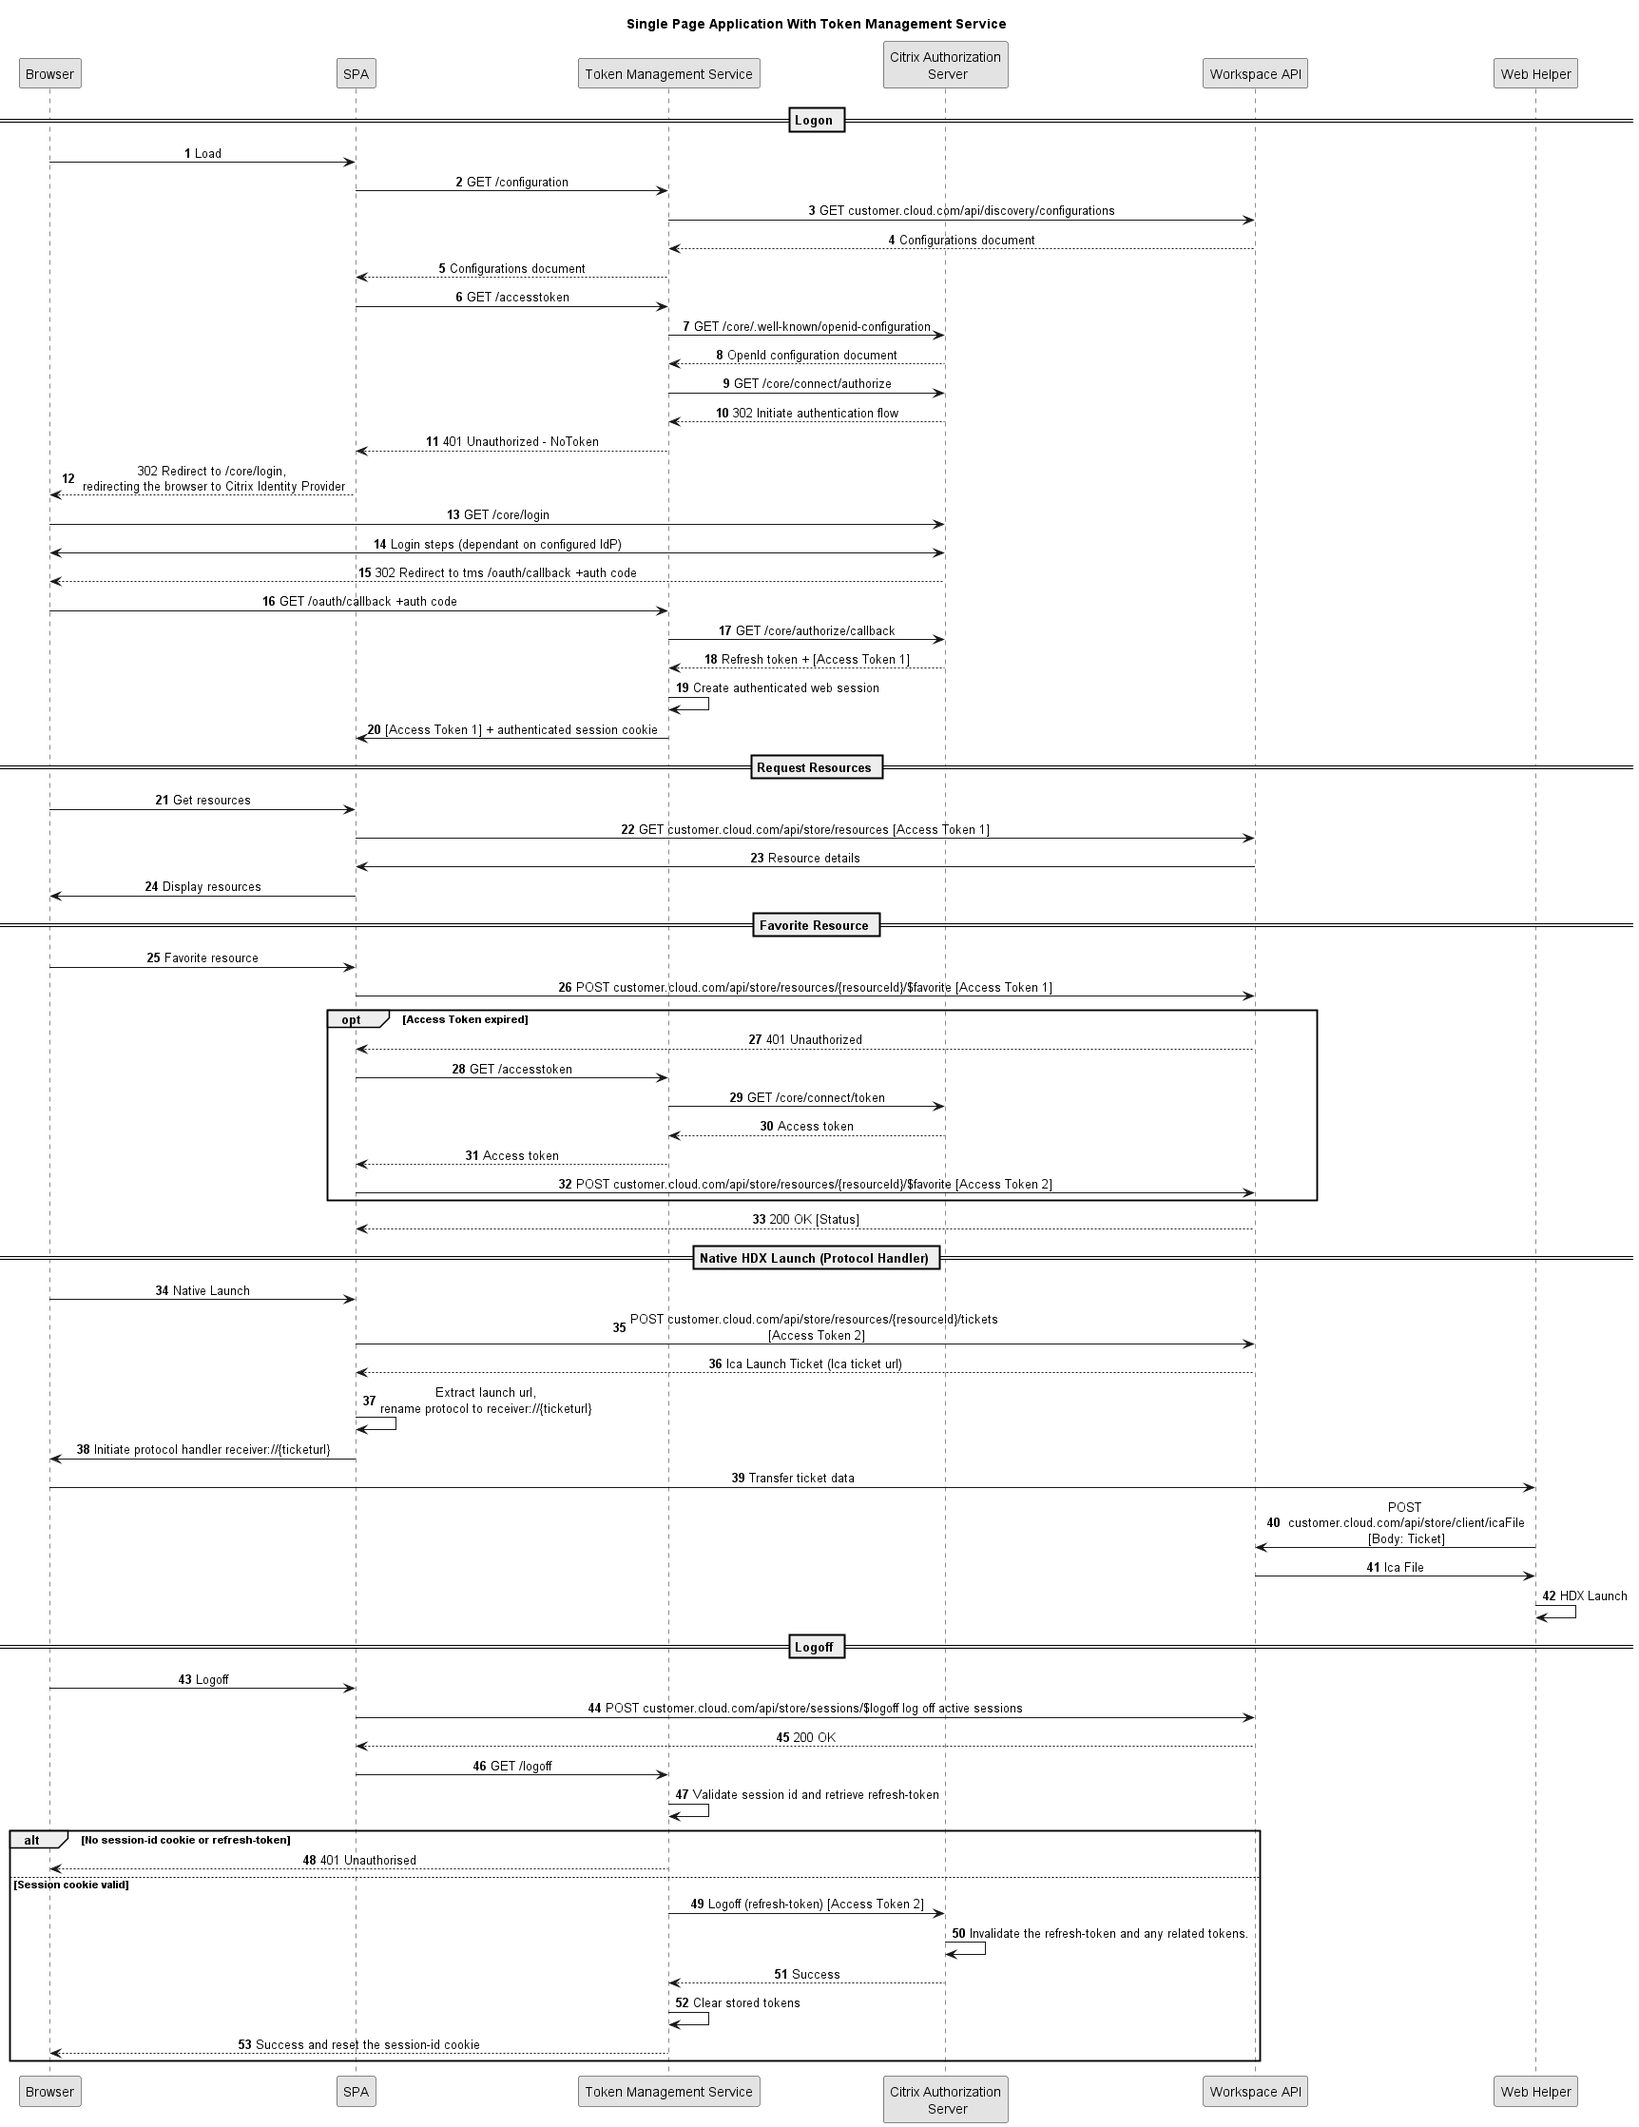
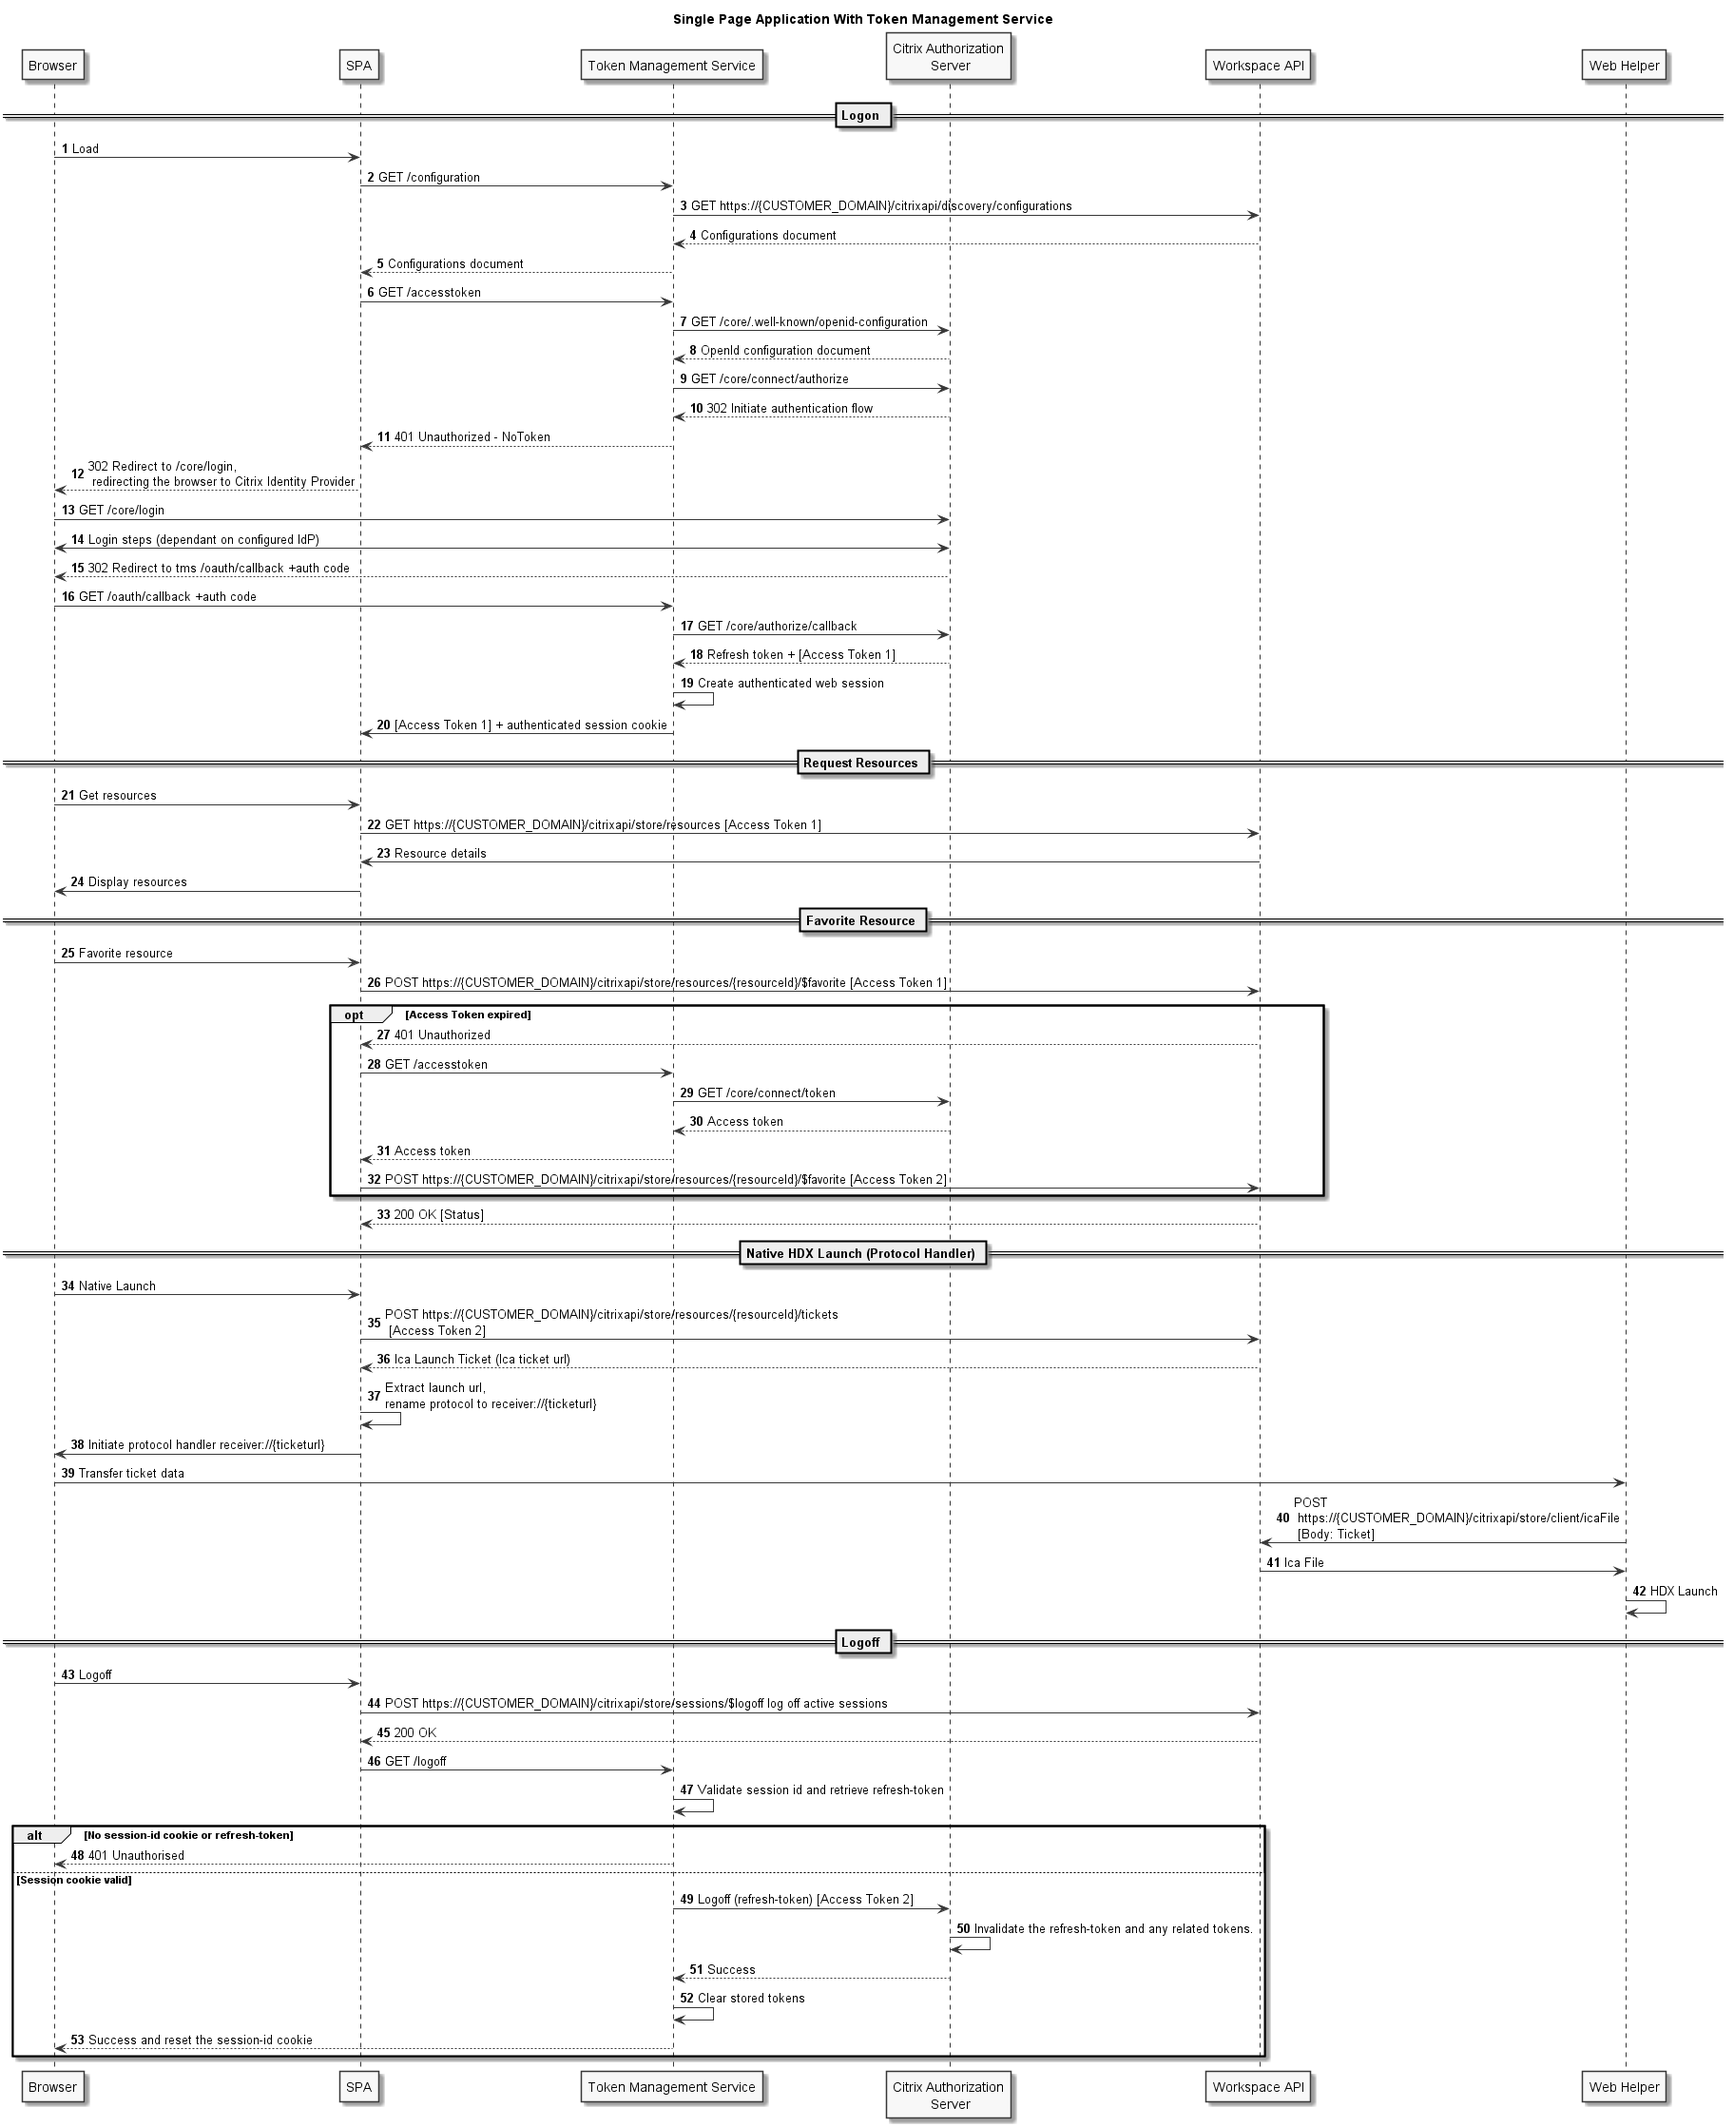
Updating Unified Workspace API path from /api to /citrixapi (#4)
* Upgrading to dotnet9 + path change

* Updating copyright

* Updating diagrams

* Updating diagrams

diff --git a/Citrix.UnifiedApi.Test.SPA/wwwroot/js/app.js b/Citrix.UnifiedApi.Test.SPA/wwwroot/js/app.js
@@ -1,4 +1,4 @@
-// Copyright © 2023. Cloud Software Group, Inc. All Rights Reserved.
+// Copyright © 2025. Cloud Software Group, Inc. All Rights Reserved.
 
 // In a production service, this should this should be pulled in from another source, such as a configuration file, environment variable, or other secure location
 const APPLICATION_ID = ""
@@ -72,9 +72,9 @@ window.addEventListener('load', async () => {
         const sessionState = await axios.get(`${tmsBaseUrl}/Session/CheckSession`, { withCredentials: true })
         
         if (sessionState.data.isLoggedIn) {
-            apiHandler = CreateApiHandler(`https://${sessionState.data.workspaceDomain}/api`, tmsBaseUrl, sessionState.data.requestVerificationToken)
+            apiHandler = CreateApiHandler(`https://${sessionState.data.workspaceDomain}/citrixapi`, tmsBaseUrl, sessionState.data.requestVerificationToken)
 
-            let discoveryResponse = await apiHandler.get(`https://${sessionState.data.workspaceDomain}/api/discovery/configurations`)
+            let discoveryResponse = await apiHandler.get(`https://${sessionState.data.workspaceDomain}/citrixapi/discovery/configurations`)
 
             let resourcesListUrl = new URL(discoveryResponse.data.services.find(service => service.service === "store").endpoints.find(endpoint => endpoint.id === "ListResources").url)
 

diff --git a/Citrix.UnifiedApi.Test.SPA/wwwroot/index.html b/Citrix.UnifiedApi.Test.SPA/wwwroot/index.html
@@ -1,4 +1,4 @@
-<!-- Copyright © 2023. Cloud Software Group, Inc. All Rights Reserved. -->
+<!-- Copyright © 2025. Cloud Software Group, Inc. All Rights Reserved. -->
 <!DOCTYPE html>
 <html lang="en">
 

diff --git a/Citrix.UnifiedApi.Test.TMS/Discovery/DiscoveryClient.cs b/Citrix.UnifiedApi.Test.TMS/Discovery/DiscoveryClient.cs
@@ -1,4 +1,4 @@
-// Copyright © 2023. Cloud Software Group, Inc. All Rights Reserved.
+// Copyright © 2025. Cloud Software Group, Inc. All Rights Reserved.
 
 using System.Net;
 
@@ -32,7 +32,7 @@ public class DiscoveryClient
 
             var uri = new UriBuilder(customerDomain)
             {
-                Path = $"/api/discovery/configurations",
+                Path = $"/citrixapi/discovery/configurations",
                 Scheme= "https",
                 Port= 443
             }.Uri;

diff --git a/Citrix.UnifiedApi.Test.TMS/CitrixOidc/CitrixOpenIdConnectEvents.cs b/Citrix.UnifiedApi.Test.TMS/CitrixOidc/CitrixOpenIdConnectEvents.cs
@@ -1,4 +1,4 @@
-// Copyright © 2023. Cloud Software Group, Inc. All Rights Reserved.
+// Copyright © 2025. Cloud Software Group, Inc. All Rights Reserved.
 
 using Microsoft.AspNetCore.Authentication.OpenIdConnect;
 using Microsoft.IdentityModel.Protocols.OpenIdConnect;

diff --git a/Citrix.UnifiedApi.Test.TMS/Program.cs b/Citrix.UnifiedApi.Test.TMS/Program.cs
@@ -1,4 +1,4 @@
-// Copyright © 2023. Cloud Software Group, Inc. All Rights Reserved.
+// Copyright © 2025. Cloud Software Group, Inc. All Rights Reserved.
 
 using Citrix.UnifiedApi.Test.TMS;
 using Citrix.UnifiedApi.Test.TMS.CitrixOidc;

diff --git a/Citrix.UnifiedApi.Test.SPA/Pages/Error.cshtml.cs b/Citrix.UnifiedApi.Test.SPA/Pages/Error.cshtml.cs
@@ -1,5 +1,5 @@
 /*
-* Copyright © 2023. Cloud Software Group, Inc.
+* Copyright © 2025. Cloud Software Group, Inc.
 * This file is subject to the license terms contained
 * in the license file that is distributed with this file.
 */

diff --git a/Citrix.UnifiedApi.Test.SPA/Program.cs b/Citrix.UnifiedApi.Test.SPA/Program.cs
@@ -1,5 +1,5 @@
 /*
-* Copyright © 2023. Cloud Software Group, Inc.
+* Copyright © 2025. Cloud Software Group, Inc.
 * This file is subject to the license terms contained
 * in the license file that is distributed with this file.
 */

diff --git a/Citrix.UnifiedApi.Test.TMS/Controllers/SessionController.cs b/Citrix.UnifiedApi.Test.TMS/Controllers/SessionController.cs
@@ -1,4 +1,4 @@
-// Copyright © 2023. Cloud Software Group, Inc. All Rights Reserved.
+// Copyright © 2025. Cloud Software Group, Inc. All Rights Reserved.
 
 using Duende.AccessTokenManagement.OpenIdConnect;
 

diff --git a/Citrix.UnifiedApi.Test.TMS/CitrixOidc/OidcSettings.cs b/Citrix.UnifiedApi.Test.TMS/CitrixOidc/OidcSettings.cs
@@ -1,4 +1,4 @@
-// Copyright © 2023. Cloud Software Group, Inc. All Rights Reserved.
+// Copyright © 2025. Cloud Software Group, Inc. All Rights Reserved.
 
 namespace Citrix.UnifiedApi.Test.TMS.CitrixOidc;
 

diff --git a/Citrix.UnifiedApi.Test.TMS/Controllers/AuthController.cs b/Citrix.UnifiedApi.Test.TMS/Controllers/AuthController.cs
@@ -1,4 +1,4 @@
-// Copyright © 2023. Cloud Software Group, Inc. All Rights Reserved.
+// Copyright © 2025. Cloud Software Group, Inc. All Rights Reserved.
 
 using System.ComponentModel.DataAnnotations;
 

diff --git a/Citrix.UnifiedApi.Test.TMS/Discovery/DiscoveryModel.cs b/Citrix.UnifiedApi.Test.TMS/Discovery/DiscoveryModel.cs
@@ -1,4 +1,4 @@
-// Copyright © 2023. Cloud Software Group, Inc. All Rights Reserved.
+// Copyright © 2025. Cloud Software Group, Inc. All Rights Reserved.
 
 using System.Text.Json.Serialization;
 

diff --git a/Citrix.UnifiedApi.Test.TMS/FrontEndSettings.cs b/Citrix.UnifiedApi.Test.TMS/FrontEndSettings.cs
@@ -1,4 +1,4 @@
-// Copyright © 2023. Cloud Software Group, Inc. All Rights Reserved.
+// Copyright © 2025. Cloud Software Group, Inc. All Rights Reserved.
 
 namespace Citrix.UnifiedApi.Test.TMS
 {
